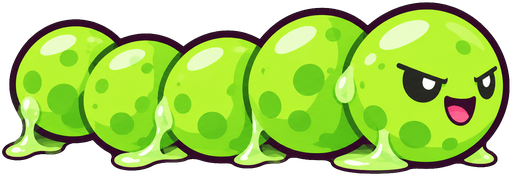
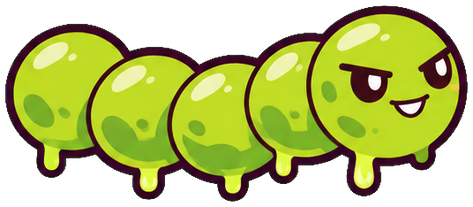
Circulatorio: Plasmodium, E. coli y S. viridans con sus 4 poses, linfocito B y letreros
- Hojas cortadas con cortar_hoja.py (ahora los pedacitos sueltos —estrellas, gotas, anticuerpos, humo— se
  quedan con su pose).
- S. viridans: la Normal se cambia por la de su hoja, para que sus 4 poses sean iguales.
- Linfocito B sano e infectado (Resources), un poco más grande porque trae sus anticuerpos alrededor.
- 8 letreros del circulatorio con su zona de texto medida en SignTextAreas.

Claude-Session: https://claude.ai/code/session_01So77qf1zGiYdnp4fHwupfP

diff --git a/Tools/Art/cortar_hoja.py b/Tools/Art/cortar_hoja.py
@@ -10,7 +10,8 @@ Ejemplos:
 Qué hace:
   1. Quita el fondo verde o magenta (igual que quitar_fondo_verde.py).
   2. Busca los dibujos separados de la hoja y los ordena como se lee: de izquierda a derecha y de arriba abajo
-     (la primera pose de la lista es la de arriba a la izquierda).
+     (la primera pose de la lista es la de arriba a la izquierda). Los pedacitos sueltos (gotas, estrellitas,
+     humito) se quedan con el dibujo más cercano.
   3. Si ya existe <Prefijo>_Normal.png, NO lo reemplaza: escala las demás poses para que el personaje mida lo mismo
      que en esa Normal (con --reemplazar sí guarda la Normal de la hoja).
   4. --max N: lo más grande que puede medir una pose, en px (por omisión 512; para jefes usa 900).
@@ -88,6 +89,16 @@ def main():
         print("No encontré ningún dibujo en la hoja.")
         return 1
     grandes = [g for g in grupos if len(g) >= len(grupos[0]) * 0.08]
+    # Los pedacitos sueltos (gotas, estrellitas, anticuerpos, humo) van con el dibujo grande más cercano.
+    cajas_g = [(g.min(0), g.max(0)) for g in grandes]
+    for g in grupos[len(grandes):]:
+        cy, cx = g.mean(0)
+        def lejos(c):
+            (y0, x0), (y1, x1) = c
+            return max(y0 - cy, 0, cy - y1) ** 2 + max(x0 - cx, 0, cx - x1) ** 2
+        cerca = min(range(len(grandes)), key=lambda i: lejos(cajas_g[i]))
+        destino = marca[grandes[cerca][0][0], grandes[cerca][0][1]]
+        marca[g[:, 0], g[:, 1]] = destino
     if len(grandes) != len(poses):
         print(f"Encontré {len(grandes)} dibujos y esperaba {len(poses)} ({', '.join(poses)}). "
               "Pide la hoja con más espacio entre las poses (o revisa que no se toquen).")

diff --git a/Assets/_Project/Scripts/Editor/SceneSetup.cs b/Assets/_Project/Scripts/Editor/SceneSetup.cs
@@ -3421,6 +3421,14 @@ namespace HealingKnight.EditorTools
                 { "Nervioso/FlechaArriba", new Rect(0.503f, 0.688f, 0.31f, 0.333f) },
                 { "Nervioso/FlechaAbajo", new Rect(0.48f, 0.696f, 0.285f, 0.333f) },
                 { "Nervioso/Secreto", new Rect(0.305f, 0.633f, 0.153f, 0.251f) },
+                { "Circulatorio/Bienvenida", new Rect(0.489f, 0.675f, 0.542f, 0.296f) },
+                { "Circulatorio/Info", new Rect(0.433f, 0.57f, 0.558f, 0.194f) },
+                { "Circulatorio/Peligro", new Rect(0.495f, 0.51f, 0.361f, 0.145f) },
+                { "Circulatorio/Salida", new Rect(0.458f, 0.659f, 0.47f, 0.265f) },
+                { "Circulatorio/FlechaDerecha", new Rect(0.499f, 0.653f, 0.494f, 0.262f) },
+                { "Circulatorio/FlechaArriba", new Rect(0.502f, 0.605f, 0.492f, 0.171f) },
+                { "Circulatorio/FlechaAbajo", new Rect(0.5f, 0.624f, 0.478f, 0.167f) },
+                { "Circulatorio/Secreto", new Rect(0.481f, 0.751f, 0.352f, 0.184f) },
         };
 
         private static Rect SignTextArea(string system, Signpost.Kind kind)

diff --git a/Assets/_Project/Scripts/Gameplay/Enemies/EpsteinBarrBoss.cs b/Assets/_Project/Scripts/Gameplay/Enemies/EpsteinBarrBoss.cs
@@ -245,7 +245,7 @@ namespace HealingKnight.Gameplay.Enemies
             if (healthyArt != null)
             {
                 infectedArt = CodeSprites.ResourceArt("Aliados/LinfocitoB_Infectado");
-                body = CodeSprites.AddArt(transform, healthyArt, 1.2f, 31, Vector2.zero, "Cuerpo");
+                body = CodeSprites.AddArt(transform, healthyArt, 1.6f, 31, Vector2.zero, "Cuerpo");   // con sus anticuerpos alrededor
                 eyes = new GameObject("Ojos").transform;
                 eyes.SetParent(transform, false);
                 angry = new GameObject("Enojado").transform;

diff --git a/Assets/_Project/Scripts/Gameplay/Level/AllyLymphocyte.cs b/Assets/_Project/Scripts/Gameplay/Level/AllyLymphocyte.cs
@@ -35,7 +35,7 @@ namespace HealingKnight.Gameplay.Level
             Sprite art = CodeSprites.ResourceArt("Aliados/LinfocitoB");   // Art/Aliados/Resources/Aliados/LinfocitoB.png
             if (art != null)
             {
-                CodeSprites.AddArt(visual, art, 1f, 31, Vector2.zero);
+                CodeSprites.AddArt(visual, art, 1.35f, 31, Vector2.zero);   // con sus anticuerpos alrededor
                 return;
             }
             Sprite c = CodeSprites.Circle;

diff --git a/LEEME.md b/LEEME.md
@@ -558,8 +558,10 @@ están en el proyecto de Claude: `claude/sprites-circulatorio.md`.
 - **Hojas con todas las poses:** `python Tools/Art/cortar_hoja.py hoja.png <ruta/Prefijo> Normal Ataca Dano Muere`
   quita el fondo, separa los dibujos (en orden de lectura) y los guarda a la misma escala. Si ya existe
   `<Prefijo>_Normal.png` no lo reemplaza y escala las demás poses para que midan lo mismo; una pose `-` se ignora.
-- **Ya están** (19 nov): `LDL`, `CelulaEspumosa`, `Esporozoito`, `Merozoito`, `Embolo`, `SViridans` (Normal), y los jefes
-  `Ateroma` (Normal y Enojado), `EpsteinBarr`, `TCruzi`, `GranTrombo` y `Calculo` (Normal). Con dibujo, la placa de
+- **Ya están** (20 nov): `SViridans` y `EColi` con sus 4 poses; `LDL`, `CelulaEspumosa`, `Esporozoito`, `Merozoito` y
+  `Embolo` (Normal); los jefes `Plasmodium` (4 poses), `Ateroma` (Normal y Enojado), `EpsteinBarr`, `TCruzi`,
+  `GranTrombo` y `Calculo` (Normal); el linfocito B (sano e infectado) y los 8 letreros (ya medidos en
+  `SignTextAreas`). Faltan la nave, las plaquetas del bestiario, los fondos y las demás poses. Con dibujo, la placa de
   ateroma mide lo que su dibujo (a lo alto tapa casi toda la arteria), las grietas del cálculo brillan donde están
   dibujadas, y el gran trombo y T. cruzi ajustan dónde se les puede pegar.
 
